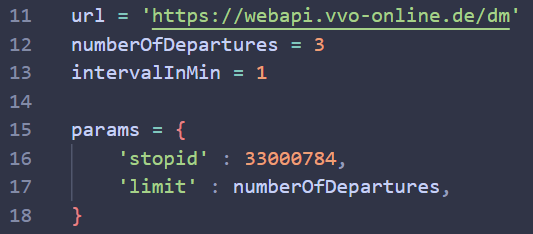
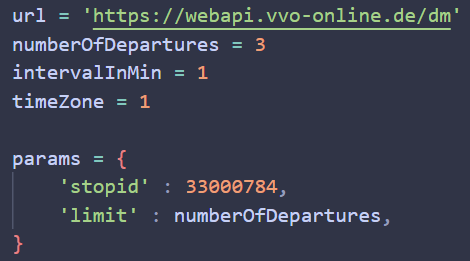
adjustable timezones
allows user to enter utc offset to save timestamps in time of the local timezone
updated readme

diff --git a/scraper.py b/scraper.py
@@ -11,6 +11,7 @@ from datetime import datetime, timezone, time
 url = 'https://webapi.vvo-online.de/dm'
 numberOfDepartures = 3
 intervalInMin = 1
+timeZone = 1                                #enter the offset to the utc timezone (0 for utc)
 
 params = {
     'stopid' : 33000784,
@@ -98,7 +99,7 @@ class Departure:
 #schedule loop to fetch upcoming departure information from vvo api until time limit is met
 @repeat(every(intervalInMin).minutes.until(time(15, 32, 0)))
 def getDepartures():
-    timestamp = (int(mktime(datetime.now(timezone.utc).timetuple())) // 60 * 60) + 3600 #timestamp of request to determine time difference to scheduled time
+    timestamp = (int(mktime(datetime.now(timezone.utc).timetuple())) // 60 * 60) + (1 + timeZone)*3600 #timestamp of request to determine time difference to scheduled time
     date = datetime.fromtimestamp(timestamp)
     try:
         request = requests.get(url=url, params=params)

diff --git a/README.md b/README.md
@@ -12,9 +12,12 @@ To initialize the database, run 'initializeDatabase.py'. Set the interval (betwe
 | ------- | ------ |
 | numberOfDepartures | amount of upcoming connections the data is fetched for |
 | intervalInMin | interval in minutes in which the requests are made |
+| timeZone | Integer, offset to the UTC timezone (0 for UTC+00:00, 1 for UTC+01:00, ...) |
 | stopId | Id of the station you want to analyse (to get the id go to https://www.vvo-online.de/de/fahrplan/fahrplanauskunft/ and search for connections from your stop. The stop id can be found in the url after 'originid=') |
 
 ![image placeholder](./resources/stopid.png)
+
+If you want to learn more about the VVO api, you can find more information in this [documentation](https://github.com/kiliankoe/vvo/blob/main/documentation/webapi.md)
 
 Set the end time (hour 0-23, minutes, seconds) of the schedule loop in the repeat decorator:
 
